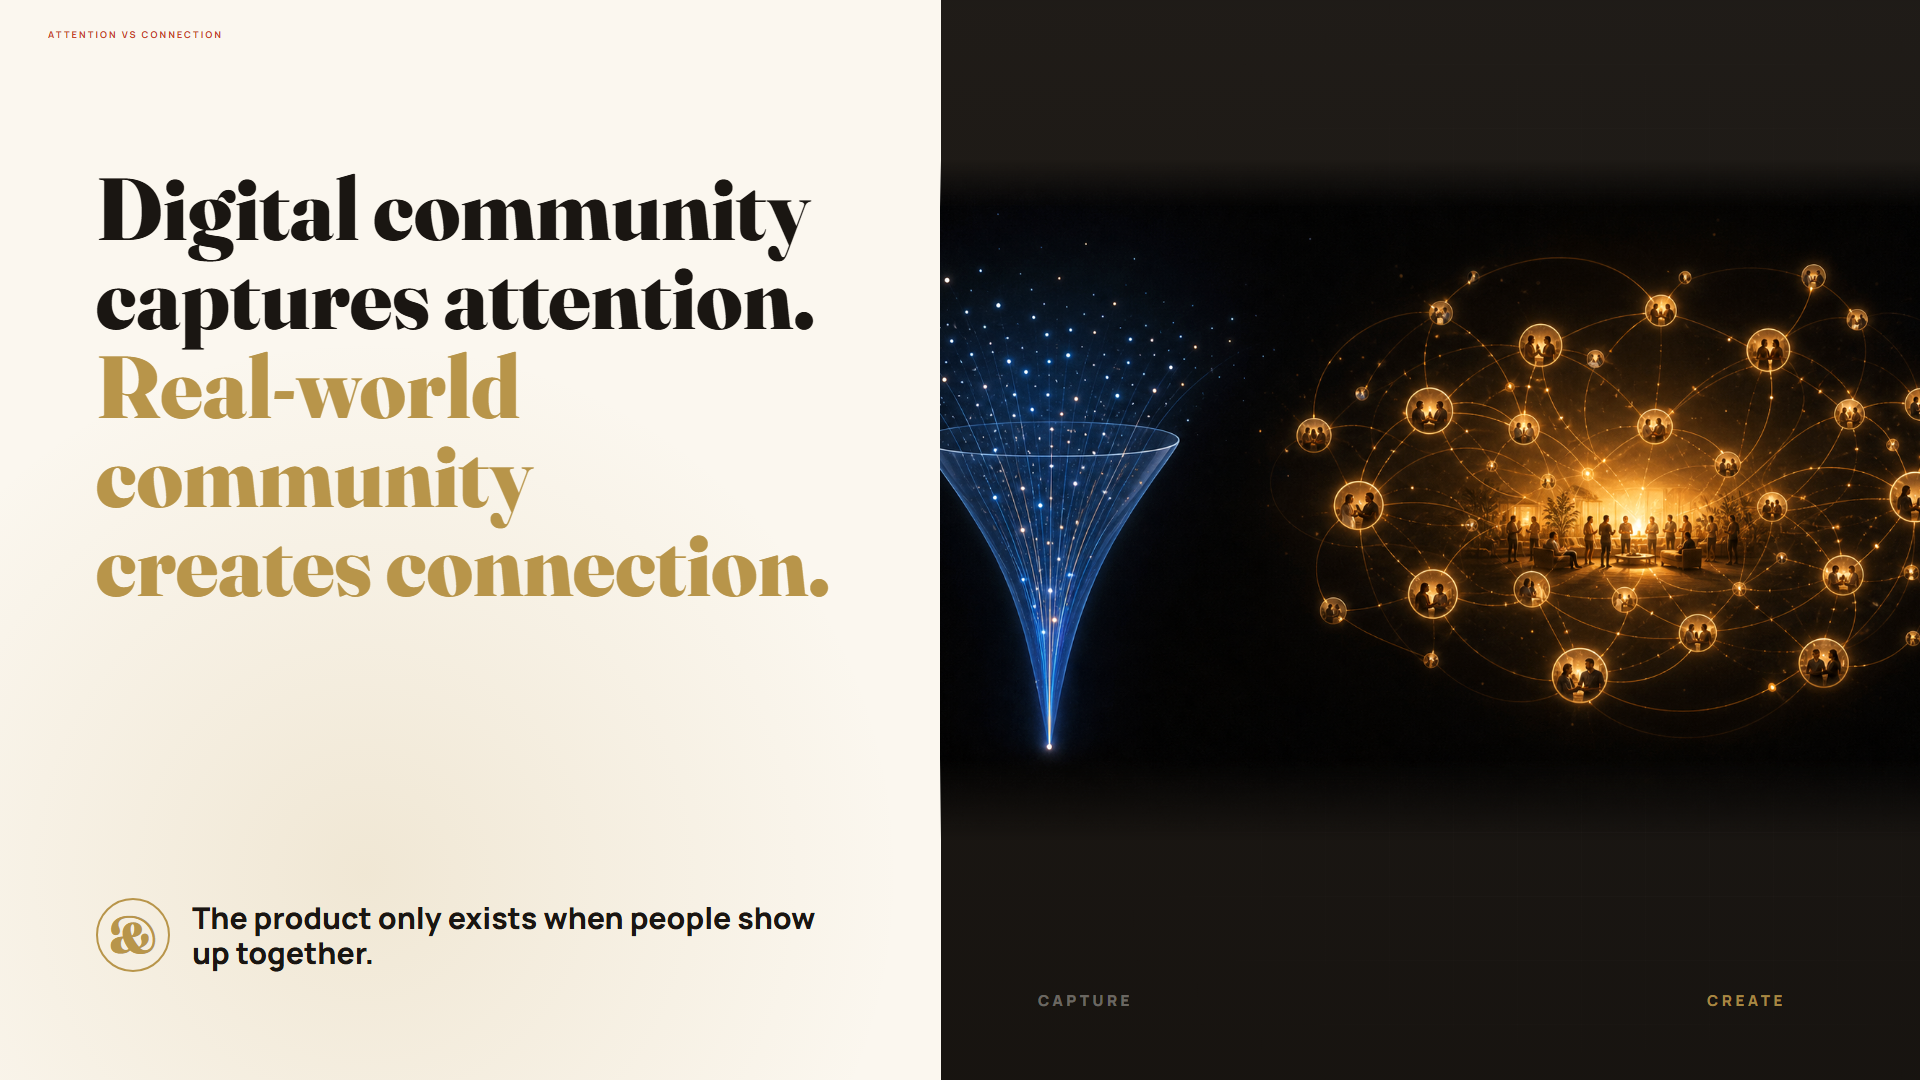
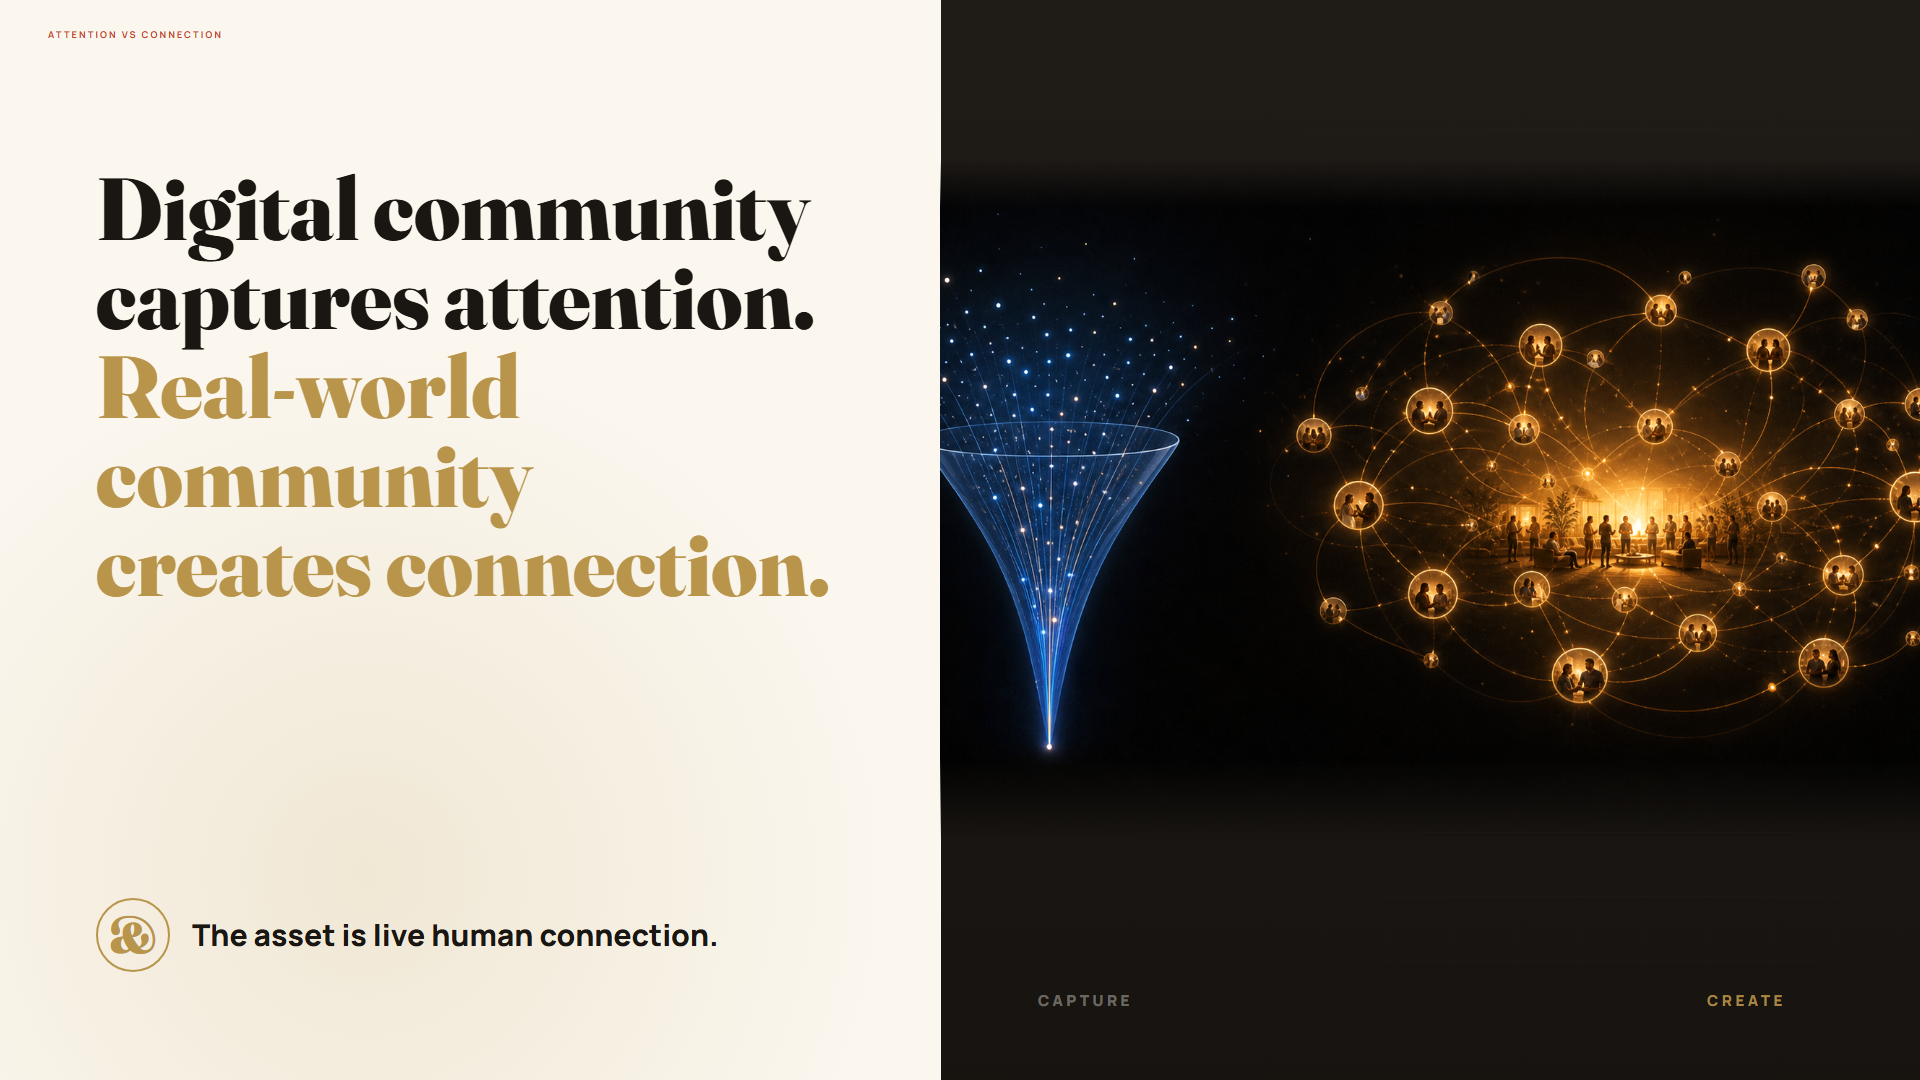
Refine community value proof line

Changed region(s): [[0.0938, 0.825, 0.4375, 0.9167]]

diff --git a/community_value_attention_connection_final.html b/community_value_attention_connection_final.html
@@ -186,7 +186,7 @@
 
     <div class="proof">
       <div class="proof-mark">&amp;</div>
-      <div class="proof-copy">The product only exists when people show up together.</div>
+      <div class="proof-copy">The asset is live human connection.</div>
     </div>
 
     <div class="dark-field" aria-hidden="true"></div>